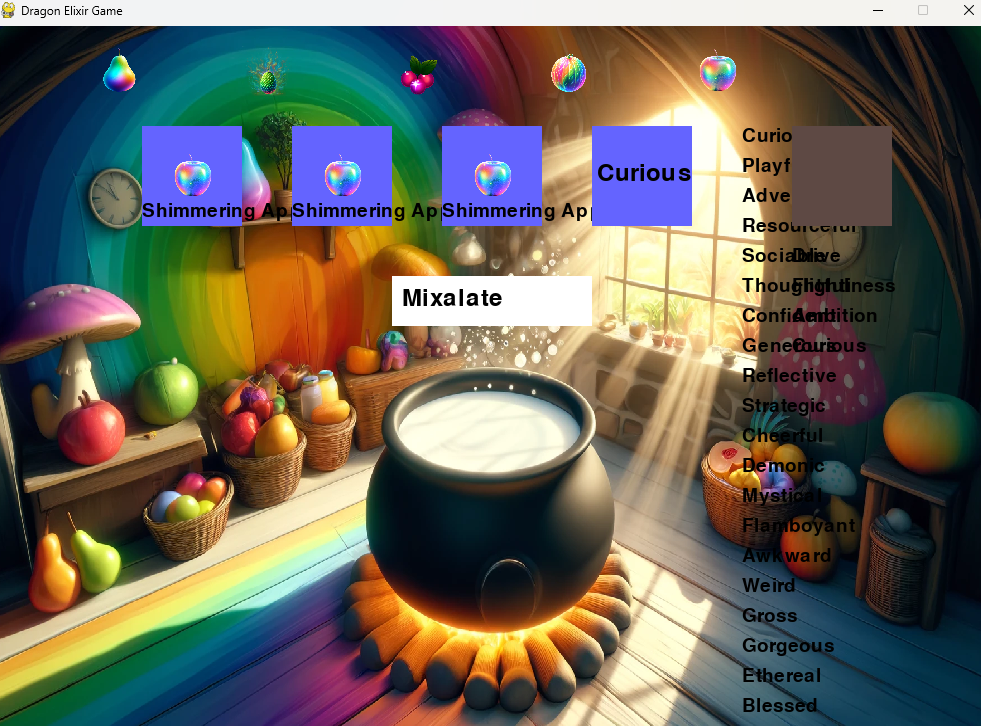
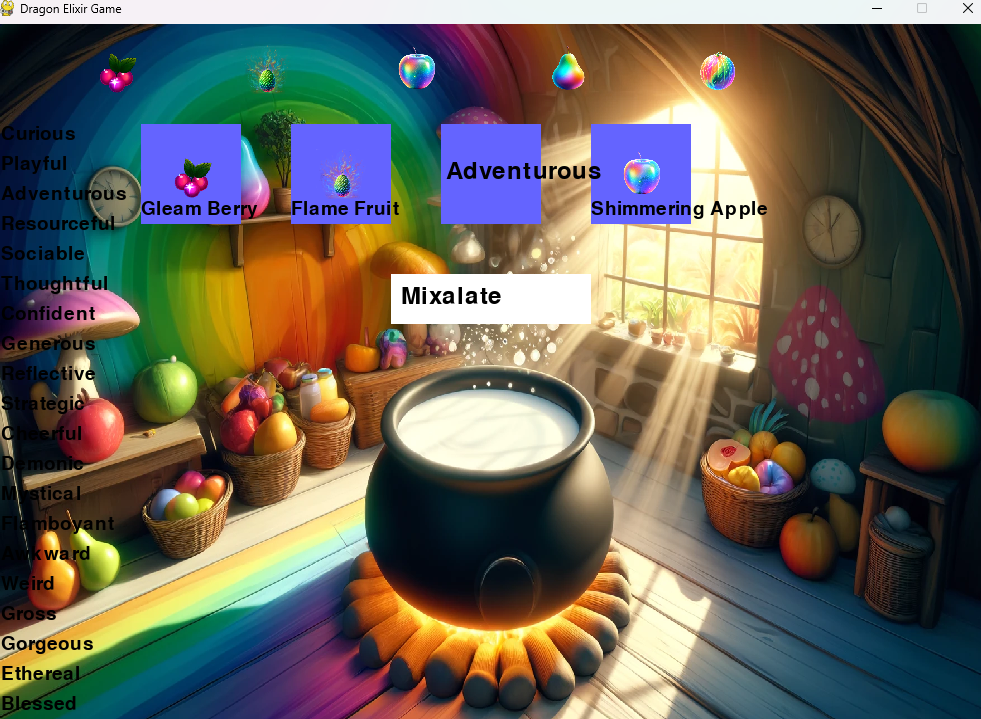
mixer

diff --git a/Mixolator.py b/Mixolator.py
@@ -68,6 +68,9 @@ small_font = pygame.font.Font(None, 28)
 selection_boxes = [pygame.Rect(150, 100, 100, 100), pygame.Rect(300, 100, 100, 100),
                    pygame.Rect(450, 100, 100, 100), pygame.Rect(600, 100, 100, 100)]
 
+# Move the personality word selection box to the first position
+selection_boxes.insert(0, selection_boxes.pop())
+
 # Create mixalate button
 mixalate_button = pygame.Rect(400, 250, 200, 50)
 
@@ -78,6 +81,7 @@ selections = [None, None, None, None]
 elixir_color = None
 elixir_personality = None
 elixir_color_name = None
+elixir_title = None
 
 def closest_color(requested_color):
     min_colors = {}
@@ -112,20 +116,21 @@ def draw_screen():
             text = font.render("?", True, BLACK)
             screen.blit(text, (box.x + 35, box.y + 35))
         else:
-            if i < 3:  # Fruit selections
-                screen.blit(fruit_images[selections[i]], (box.x + 25, box.y + 25))
-                fruit_name = ["Gleam Berry", "Flame Fruit", "Shimmering Apple", "Ethereal Pear", "Moonbeam Melon"][selections[i]]
-                text = small_font.render(fruit_name, True, BLACK)
-                screen.blit(text, (box.x, box.y + 75))
-            else:  # Personality word selection
+            if i == 0:  # Personality word selection
                 text = font.render(personality_keywords[selections[i]], True, BLACK)
                 screen.blit(text, (box.x + 5, box.y + 35))
+            else:  # Fruit selections
+                screen.blit(fruit_images[selections[i]], (box.x + 25, box.y + 15))
+                fruit_name_lines = ["Gleam Berry", "Flame Fruit", "Shimmering Apple", "Ethereal Pear", "Moonbeam Melon"][selections[i]].split()
+                for line_index, line in enumerate(fruit_name_lines):
+                    text = small_font.render(line, True, BLACK)
+                    screen.blit(text, (box.x + 5, box.y + 75 + 20 * line_index))
 
-    # Draw personality word options on the right
+    # Draw personality word options on the left
     for i, keyword in enumerate(personality_keywords):
-        color = HOVER_COLOR if pygame.Rect(WIDTH - 250, 100 + 30 * i, 200, 30).collidepoint(pygame.mouse.get_pos()) else BLACK
+        color = HOVER_COLOR if pygame.Rect(10, 100 + 30 * i, 200, 30).collidepoint(pygame.mouse.get_pos()) else BLACK
         text = small_font.render(keyword, True, color)
-        screen.blit(text, (WIDTH - 250, 100 + 30 * i))
+        screen.blit(text, (10, 100 + 30 * i))
 
     # Draw mixalate button
     pygame.draw.rect(screen, GREY if None in selections else WHITE, mixalate_button)
@@ -133,18 +138,20 @@ def draw_screen():
     screen.blit(text, (mixalate_button.x + 10, mixalate_button.y + 10))
 
     # Draw elixir result if created
-    if elixir_color and elixir_personality:
-        pygame.draw.rect(screen, elixir_color, pygame.Rect(50, 500, 100, 100))
+    if elixir_color and elixir_personality and elixir_color_name and elixir_title:
+        pygame.draw.rect(screen, elixir_color, pygame.Rect(800, 500, 100, 100))
         for i, word in enumerate(elixir_personality):
             text = small_font.render(word, True, BLACK)
-            screen.blit(text, (160, 500 + i * 30))
+            screen.blit(text, (910, 500 + i * 30))
         color_name_text = small_font.render(elixir_color_name, True, BLACK)
-        screen.blit(color_name_text, (50, 610))
+        screen.blit(color_name_text, (800, 610))
+        title_text = small_font.render(elixir_title, True, BLACK)
+        screen.blit(title_text, (800, 640))
 
     pygame.display.flip()
 
 def main():
-    global elixir_color, elixir_personality, elixir_color_name
+    global elixir_color, elixir_personality, elixir_color_name, elixir_title
     running = True
     selected_box = None
 
@@ -152,4 +159,40 @@ def main():
         for event in pygame.event.get():
             if event.type == pygame.QUIT:
                 running = False
-            elif event
+            elif event.type == pygame.MOUSEBUTTONDOWN:
+                x, y = event.pos
+                for i, box in enumerate(selection_boxes):
+                    if box.collidepoint(x, y):
+                        selected_box = i
+                for i, pos in enumerate(fruit_positions):
+                    if pygame.Rect(pos[0], pos[1], 50, 50).collidepoint(x, y):
+                        if selected_box is not None and selected_box > 0:
+                            selections[selected_box] = i
+                            selected_box = None
+                for i in range(len(personality_keywords)):
+                    if pygame.Rect(10, 100 + 30 * i, 200, 30).collidepoint(x, y):
+                        if selected_box == 0:
+                            selections[selected_box] = i
+                            selected_box = None
+                if mixalate_button.collidepoint(x, y) and None not in selections:
+                    # Create dragon elixir
+                    r = random.choice(fruit_rgb_ranges[selections[1]])
+                    g = random.choice(fruit_rgb_ranges[selections[2]])
+                    b = random.choice(fruit_rgb_ranges[selections[3]])
+                    elixir_color = (r, g, b)
+                    elixir_color_name = get_color_name(elixir_color)
+                    elixir_personality = [
+                        random.choice(fruit_personality_keywords[selections[i]]) for i in range(1, 4)
+                    ]
+                    elixir_personality.insert(0, personality_keywords[selections[0]])
+                    elixir_title = f"{personality_keywords[selections[0]]} {elixir_color_name} Elixir of Dragon Breeding"
+                    print(f"Dragon Elixir Created! Color: {elixir_color_name}, Personality: {elixir_personality}")
+
+        draw_screen()
+
+    pygame.quit()
+    sys.exit()
+
+if __name__ == "__main__":
+    main()
+
